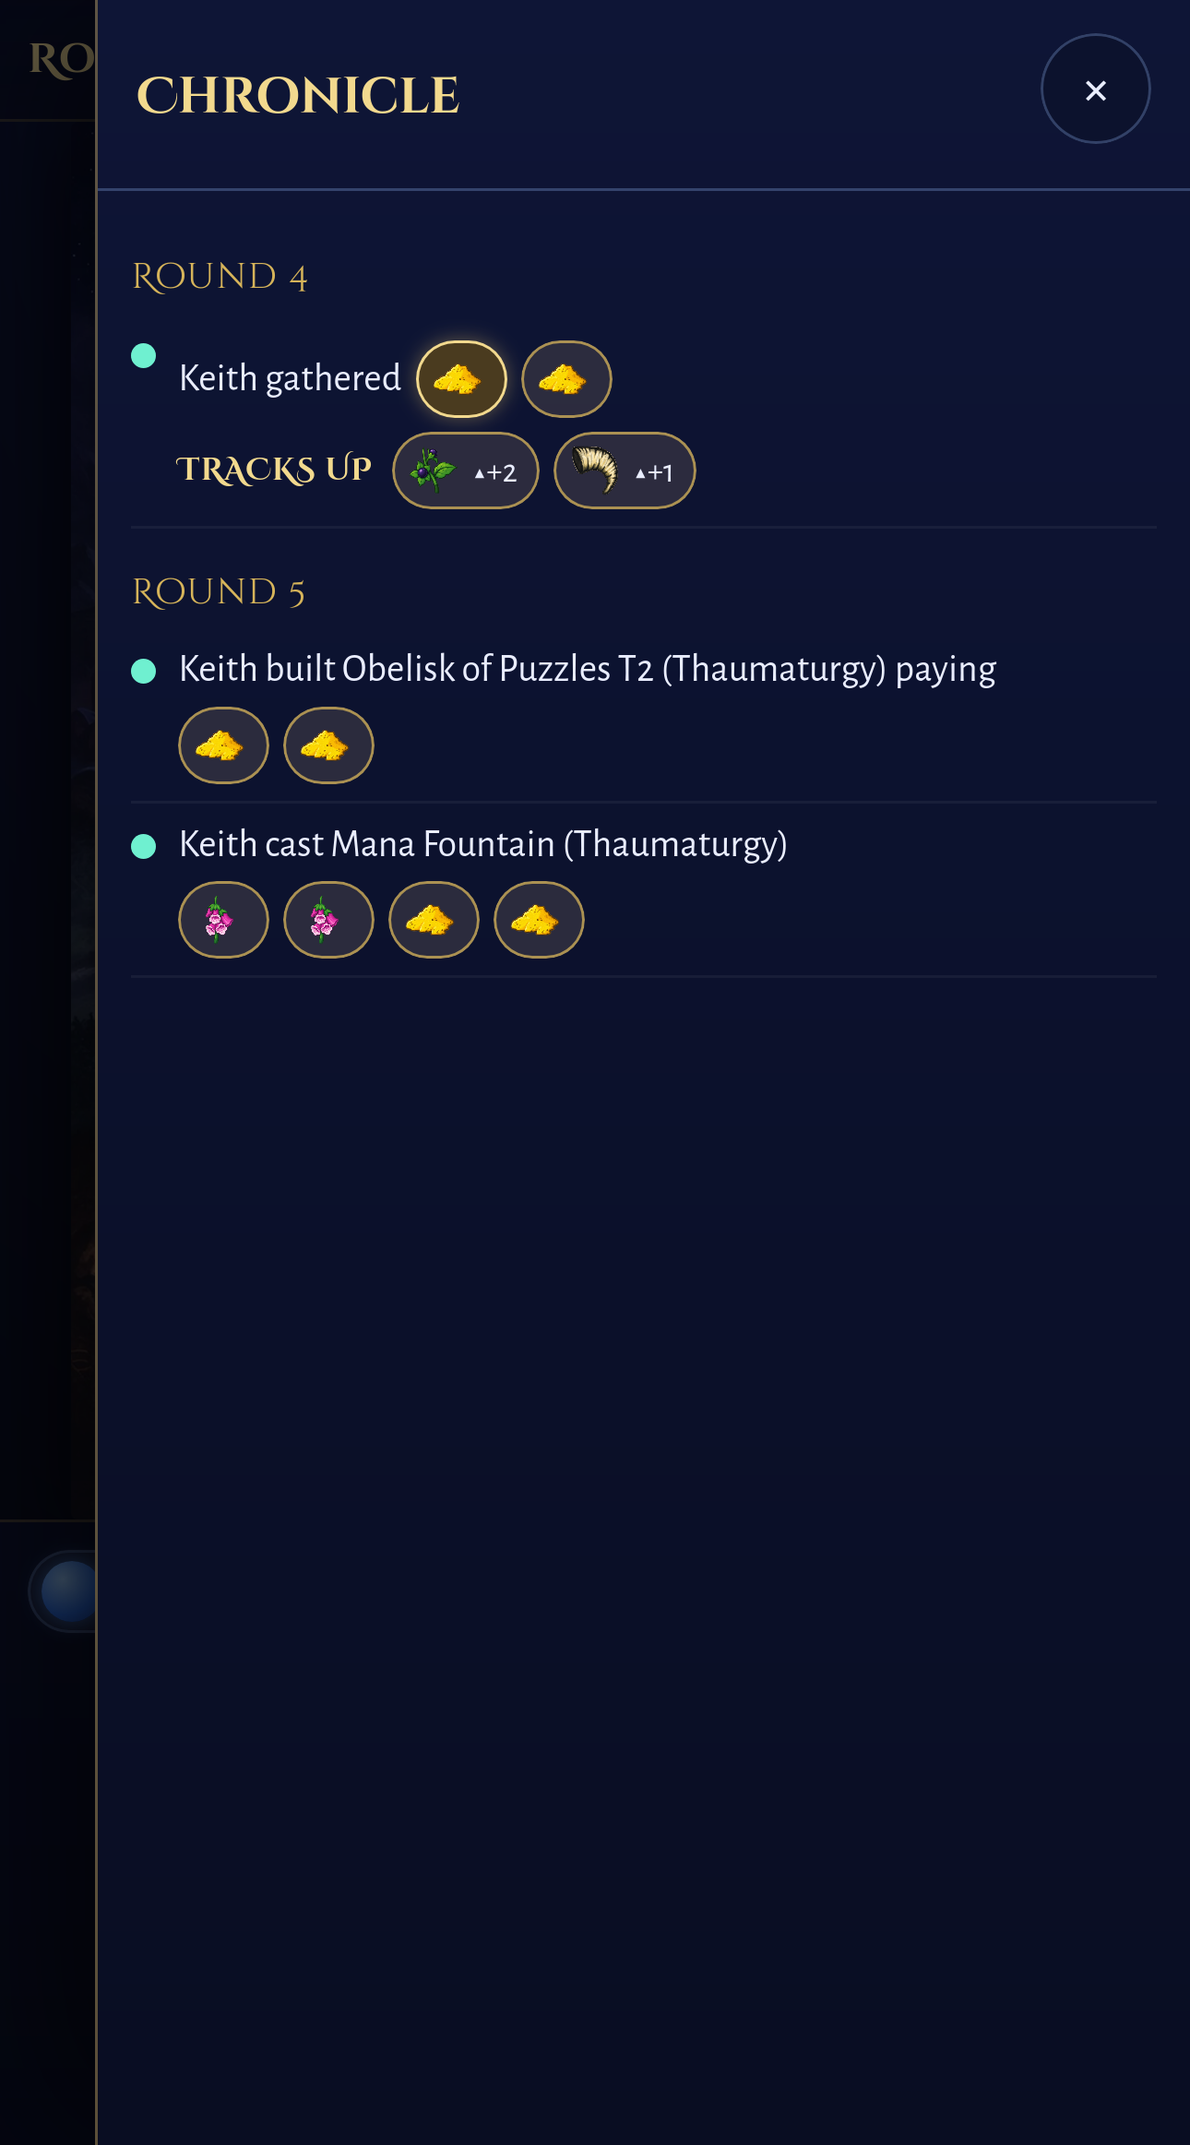
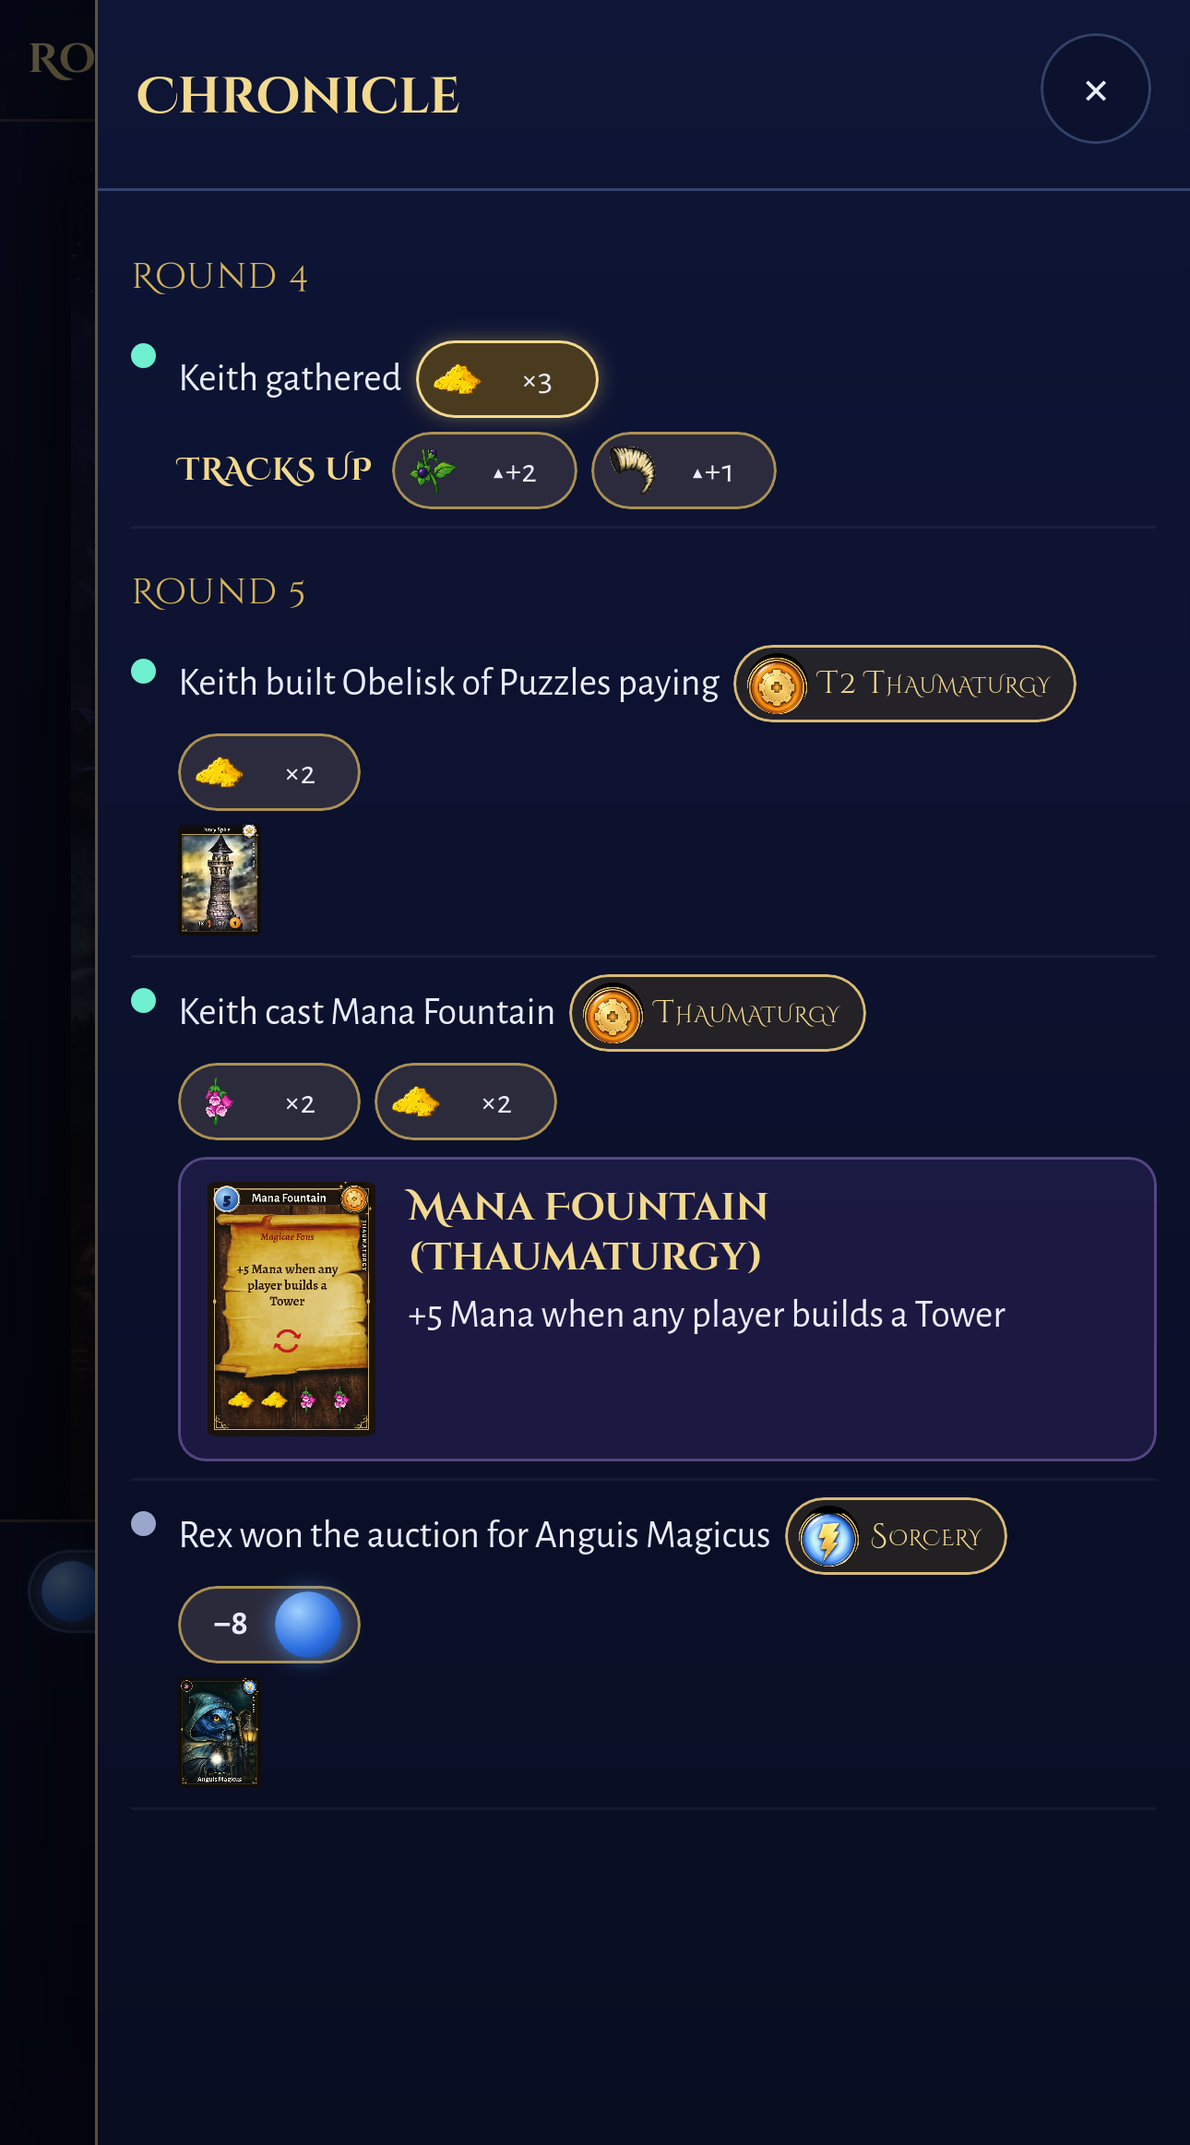
Add Chronicle school chips and reagent counts (#71)
* Add Chronicle school chips and reagent counts

* Apply v4 Chronicle chip standards

---------

diff --git a/app/js/ui.js b/app/js/ui.js
@@ -477,24 +477,27 @@ export function openMats(g) {
 // ------------------------------------------------------------------ log drawer
 const DOT = { Keith: '#6ff0d0', Newt: '#c49bff', LizWiz: '#ffb46b' };
 
-function logReagentChip(r, { bonus = false, track = null } = {}) {
+function logReagentChip(r, { bonus = false, count = 1, track = null } = {}) {
   const label = nice(r);
+  const suffix = track ? `▲+${track}` : (count >= 2 ? `×${count}` : '');
   return h('span', {
     class: `log-reagent-chip ${bonus ? 'bonus' : ''} ${track ? 'log-track-chip' : ''}`,
-    title: label,
-    'aria-label': label,
-  }, h('img', { src: reagentIcon(r), alt: label }), track ? `▲+${track}` : null);
+    title: suffix ? `${label} ${suffix}` : label,
+    'aria-label': suffix ? `${label} ${suffix}` : label,
+  }, h('img', { src: reagentIcon(r), alt: label }),
+    h('span', { class: 'log-reagent-count' }, suffix));
+}
+
+export function groupReagents(reagents = [], bonus = []) {
+  const grouped = new Map();
+  const bonusSet = new Set(bonus);
+  for (const reagent of [...reagents, ...bonus]) grouped.set(reagent, (grouped.get(reagent) || 0) + 1);
+  return [...grouped.entries()].map(([reagent, count]) => ({ reagent, count, bonus: bonusSet.has(reagent) }));
 }
 
 function logReagentRow(reagents, bonus = []) {
-  const bonusLeft = [...bonus];
   return h('div', { class: 'log-reagent-row' },
-    ...(reagents || []).map((r) => {
-      const i = bonusLeft.indexOf(r);
-      const isBonus = i >= 0;
-      if (isBonus) bonusLeft.splice(i, 1);
-      return logReagentChip(r, { bonus: isBonus });
-    }));
+    ...groupReagents(reagents, bonus).map(({ reagent: r, count, bonus: isBonus }) => logReagentChip(r, { bonus: isBonus, count })));
 }
 
 function logTracksRow(tracks) {
@@ -503,19 +506,46 @@ function logTracksRow(tracks) {
   return h('div', { class: 'log-track-row' },
     h('span', { class: 'log-track-label' }, 'TRACKS UP'),
     h('div', { class: 'log-reagent-row' },
-      ...countsByReagent.keys().map((r) => logReagentChip(r, { track: countsByReagent.get(r) }))));
+      ...countsByReagent.keys().map((r) => logReagentChip(r, { track: countsByReagent.get(r), count: countsByReagent.get(r) }))));
 }
 
-function logInlineReagents(text, reagents, bonus = []) {
+function logSchoolChip(school, tier = null) {
+  const label = tier ? `T${tier} ${school}` : school;
+  const crest = ['Wild', 'Arch-Mage'].includes(school) ? null : h('img', { src: schoolIcon(school), alt: school });
+  return h('span', { class: `log-school-chip ${crest ? '' : 'plain'}`, title: label, 'aria-label': label }, crest, label);
+}
+
+function logValueChip({ kind, value }) {
+  const label = `${value} ${kind}`;
+  return h('span', { class: `log-value-chip ${kind}`, title: label, 'aria-label': label },
+    h('span', { class: 'log-value-number' }, value < 0 ? `−${Math.abs(value)}` : String(value)),
+    h('span', { class: `log-value-orb ${kind}`, 'aria-hidden': 'true' }));
+}
+
+function logInlineReagents(text, reagents, bonus = [], school = null, tier = null, values = []) {
   return h('div', { class: 'log-inline' },
     h('span', { class: 'log-inline-text' }, text),
-    logReagentRow(reagents, bonus));
+    school ? logSchoolChip(school, tier) : null,
+    reagents?.length ? logReagentRow(reagents, bonus) : null,
+    ...(values || []).map(logValueChip));
 }
 
 function chronicleText(e) {
-  if (e.act === 'build' && e.reagents?.length) return e.text.replace(/\s+paying.*$/, ' paying');
-  if ((e.act === 'cast' || e.act === 'research') && e.reagents?.length) return e.text.replace(/\s+\([^()]*\)$/, '');
-  return e.text;
+  let text = e.text;
+  if (e.school) {
+    const schoolPart = e.tier ? new RegExp(`\\s+T${e.tier}\\s+\\(${e.school}\\)`) : new RegExp(`\\s+\\(${e.school}\\)`);
+    text = text.replace(schoolPart, '');
+  }
+  if (e.values?.length) {
+    text = text
+      .replace(/\s+for\s+\d+\s+mana\b/g, '')
+      .replace(/\s+into\s+\d+\s+Gold\b/g, '')
+      .replace(/:\s*[+-]\d+\s+(?:mana|Gold)(?:\s+total)?/g, '')
+      .replace(/\s+\(\+[0-9]+\s+mana\s+total\)/g, '');
+  }
+  if (e.act === 'build' && e.reagents?.length) return text.replace(/\s+paying.*$/, ' paying');
+  if ((e.act === 'cast' || e.act === 'research') && e.reagents?.length) return text.replace(/\s+\([^()]*\)$/, '');
+  return text;
 }
 
 export async function openLog(g) {
@@ -533,13 +563,16 @@ export async function openLog(g) {
       h('img', { src: art(e.cast), alt: e.cast, onclick: () => expandCard(g, e.cast) }),
       h('div', {}, h('div', { class: 'lc-name' }, g.cards[e.cast].display), h('div', { class: 'lc-text' }, g.cards[e.cast].effect))) : null;
     const gatherBlock = e.act === 'gather' && e.gather ? h('div', { class: 'log-gather-details' },
-      logInlineReagents(`${e.who} gathered`, e.gather.reagents, e.gather.bonus), logTracksRow(e.gather.tracks)) : null;
-    const inlineReagents = !gatherBlock && e.reagents?.length
-      ? logInlineReagents(chronicleText(e), e.reagents)
+      logInlineReagents(`${e.who} gathered`, e.gather.reagents, e.gather.bonus, e.school, e.tier, e.values), logTracksRow(e.gather.tracks)) : null;
+    const inlineReagents = !gatherBlock && (e.reagents?.length || e.school)
+      ? logInlineReagents(chronicleText(e), e.reagents, [], e.school, e.tier, e.values)
+      : null;
+    const inlineValues = !gatherBlock && !inlineReagents && e.values?.length
+      ? logInlineReagents(chronicleText(e), [], [], e.school, e.tier, e.values)
       : null;
     appendNodes(list, h('div', { class: 'log-item', 'data-testid': 'log-item' },
       h('span', { class: 'dot', style: { background: DOT[e.who] || '#9aa6cc' } }),
-      h('div', { style: { flex: 1 } }, gatherBlock, inlineReagents || (!gatherBlock ? h('div', {}, chronicleText(e)) : null),
+      h('div', { style: { flex: 1 } }, gatherBlock, inlineReagents || inlineValues || (!gatherBlock ? h('div', {}, chronicleText(e)) : null),
         thumbs.length ? h('div', { class: 'thumbs' }, thumbs.slice(0, 8).map((k) => h('img', { src: art(k), alt: k, onclick: () => expandCard(g, k) }))) : null,
         castBlock)));
   }

diff --git a/tests/e2e/chronicle-reagent-icons.spec.js b/tests/e2e/chronicle-reagent-icons.spec.js
@@ -15,11 +15,17 @@ test('Chronicle renders structured reagent icons for gather, build, and cast ent
         },
         {
           r: 5, who: 'Keith', act: 'build', text: 'Keith built Obelisk of Puzzles T2 (Thaumaturgy) paying Sulphur, Sulphur',
-          reagents: ['Sulphur', 'Sulphur'],
+          reagents: ['Sulphur', 'Sulphur'], school: 'Thaumaturgy', tier: 2, cards: ['Tower_T1_Ivory_Spire'],
         },
         {
           r: 5, who: 'Keith', act: 'cast', text: 'Keith cast Mana Fountain (Thaumaturgy) (Foxglove, Foxglove, Sulphur, Sulphur)',
-          reagents: ['Foxglove', 'Foxglove', 'Sulphur', 'Sulphur'],
+          reagents: ['Foxglove', 'Foxglove', 'Sulphur', 'Sulphur'], school: 'Thaumaturgy',
+          cast: 'Spell_Mana_Fountain', cards: ['Spell_Mana_Fountain'],
+        },
+        {
+          r: 5, who: 'Rex', act: 'auction', text: 'Rex won the auction for Anguis Magicus for 8 mana',
+          school: 'Sorcery', values: [{ kind: 'mana', value: -8 }],
+          cards: ['Wizard_Anguis_Magicus'],
         },
       ],
     });
@@ -28,18 +34,31 @@ test('Chronicle renders structured reagent icons for gather, build, and cast ent
 
   const log = page.getByTestId('log');
   await expect(log).toBeVisible();
-  await expect(log.locator('.log-item')).toHaveCount(3);
+  await expect(log.locator('.log-item')).toHaveCount(4);
   await expect(log.locator('.log-track-label')).toHaveText('TRACKS UP');
   await expect(log.locator('.log-track-chip')).toHaveCount(2);
   await expect(log.locator('.log-gather-details .log-reagent-chip.bonus')).toHaveCount(1);
   await expect(log.locator('.log-item').nth(0).locator('.log-inline-text')).toHaveText('Keith gathered');
-  await expect(log.locator('.log-item').nth(0).locator('.log-inline .log-reagent-chip')).toHaveCount(2);
-  await expect(log.locator('.log-item').nth(1)).toContainText('Keith built Obelisk of Puzzles T2 (Thaumaturgy) paying');
-  await expect(log.locator('.log-item').nth(1).locator('.log-reagent-chip')).toHaveCount(2);
-  await expect(log.locator('.log-item').nth(2)).toContainText('Keith cast Mana Fountain (Thaumaturgy)');
+  await expect(log.locator('.log-item').nth(0).locator('.log-inline .log-reagent-chip')).toHaveCount(1);
+  await expect(log.locator('.log-item').nth(0).locator('.log-inline .log-reagent-count')).toHaveText('×3');
+  await expect(log.locator('.log-item').nth(1)).toContainText('Keith built Obelisk of Puzzles paying');
+  await expect(log.locator('.log-item').nth(1).locator('.log-school-chip')).toContainText('T2 Thaumaturgy');
+  await expect(log.locator('.log-item').nth(1).locator('.log-reagent-chip')).toHaveCount(1);
+  await expect(log.locator('.log-item').nth(2)).toContainText('Keith cast Mana Fountain');
+  await expect(log.locator('.log-item').nth(2).locator('.log-school-chip')).toContainText('Thaumaturgy');
   await expect(log.locator('.log-item').nth(2)).not.toContainText('Foxglove, Foxglove');
-  await expect(log.locator('.log-item').nth(2).locator('.log-reagent-chip')).toHaveCount(4);
-  await expect(log.locator('.log-reagent-chip').first()).toHaveAttribute('aria-label', 'Sulphur');
+  await expect(log.locator('.log-item').nth(2).locator('.log-reagent-chip')).toHaveCount(2);
+  await expect(log.locator('.log-item').nth(2).locator('.log-reagent-count').nth(0)).toHaveText('×2');
+  await expect(log.locator('.log-reagent-chip').first()).toHaveAttribute('aria-label', 'Sulphur ×3');
+  await expect(log.locator('.log-item').nth(3).locator('.log-school-chip')).toContainText('Sorcery');
+  await expect(log.locator('.log-item').nth(3).locator('.log-value-chip')).toHaveCount(1);
+  await expect(log.locator('.log-item').nth(3).locator('.log-value-number')).toHaveText('−8');
+  const grouped = await page.evaluate(() => window.ui.groupReagents(['Sulphur', 'Foxglove', 'Sulphur'], ['Sulphur', 'Horn']));
+  expect(grouped).toEqual([
+    { reagent: 'Sulphur', count: 3, bonus: true },
+    { reagent: 'Foxglove', count: 1, bonus: false },
+    { reagent: 'Horn', count: 1, bonus: true },
+  ]);
   const gatherTextBox = await log.locator('.log-item').nth(0).locator('.log-inline-text').boundingBox();
   const gatherChipBox = await log.locator('.log-item').nth(0).locator('.log-inline .log-reagent-chip').first().boundingBox();
   expect(Math.abs(gatherTextBox.y - gatherChipBox.y)).toBeLessThan(12);

diff --git a/app/css/app.css b/app/css/app.css
@@ -474,6 +474,20 @@ img { -webkit-user-drag: none; user-select: none; }
   font-size: 12px; white-space: nowrap; }
 .log-reagent-chip.bonus { border-color: var(--gold-hi); background: rgba(99, 75, 24, .72); box-shadow: 0 0 7px rgba(255, 211, 107, .35); }
 .log-reagent-chip img { width: 22px; height: 22px; object-fit: contain; flex: none; }
+.log-reagent-count { display: inline-block; width: 30px; text-align: center; font-variant-numeric: tabular-nums; }
+.log-value-chip { display: inline-flex; align-items: center; justify-content: center; gap: 4px; min-width: 62px; height: 28px; padding: 0 6px;
+  border: 1px solid rgba(214, 180, 90, .75); border-radius: 15px; background: rgba(55, 52, 67, .72);
+  color: var(--ink); font-size: 13px; font-variant-numeric: tabular-nums; white-space: nowrap; }
+.log-value-number { min-width: 24px; text-align: center; font-weight: 700; }
+.log-value-orb { width: 24px; height: 24px; border-radius: 50%; display: grid; place-items: center; flex: none; }
+.log-value-orb.mana { background: radial-gradient(circle at 35% 30%, #9fd0ff, #2b6ee0 60%, #173a8a); box-shadow: 0 0 8px rgba(90, 162, 255, .7); }
+.log-value-orb.gold { background: radial-gradient(circle at 35% 30%, #fff1b0, #e0a92e 60%, #8a5a12); box-shadow: 0 0 8px rgba(224, 169, 46, .6); }
+.log-school-chip { display: inline-flex; align-items: center; gap: 4px; min-height: 25px; padding: 2px 8px 2px 4px;
+  border: 1px solid rgba(255, 220, 137, .82); border-radius: 14px; background: rgba(88, 67, 24, .32);
+  color: var(--gold-hi); font-family: var(--display); font-size: 11px; font-variant-caps: small-caps;
+  letter-spacing: .4px; white-space: nowrap; }
+.log-school-chip img { width: 22px; height: 22px; object-fit: contain; }
+.log-school-chip.plain { border-color: rgba(214, 180, 90, .45); }
 .log-track-row { display: flex; flex-wrap: wrap; align-items: center; gap: 5px; }
 .log-track-label { color: var(--gold-hi); font-family: var(--display); font-size: 11px; font-weight: 700;
   font-variant-caps: small-caps; letter-spacing: .4px; margin-right: 2px; }

diff --git a/engine/web/lw_web.py b/engine/web/lw_web.py
@@ -349,6 +349,34 @@ def sell_banner_data(e):
     return None
 
 
+def chronicle_values(e):
+    """Numeric mana/gold facts rendered as number-first Chronicle chips."""
+    a = e.get('act')
+    values = []
+    if a == 'auction' and e.get('price') is not None:
+        values.append({'kind': 'mana', 'value': -e['price']})
+    elif a in ('convert', 'convert1') and e.get('gain') is not None:
+        values.append({'kind': 'mana', 'value': e['gain']})
+    elif a == 'transmute' and e.get('gold') is not None:
+        values.append({'kind': 'gold', 'value': e['gold']})
+    elif a == 'wand_tax' and e.get('gold') is not None:
+        values.append({'kind': 'gold', 'value': e['gold']})
+    elif a == 'invisibility_potion' and e.get('gold') is not None:
+        values.append({'kind': 'gold', 'value': e['gold']})
+    elif a == 'summon':
+        if e.get('cost') is not None:
+            values.append({'kind': 'mana', 'value': -e['cost']})
+        if e.get('gold') is not None:
+            values.append({'kind': 'gold', 'value': e['gold']})
+    elif a == 'research' and e.get('paid') is not None:
+        values.append({'kind': 'mana', 'value': -e['paid']})
+    elif a == 'build' and e.get('paid') == 'gold':
+        values.append({'kind': 'gold', 'value': -e.get('tier_paid', 0)})
+    elif a == 'trigger' and e.get('gain') is not None:
+        values.append({'kind': 'mana', 'value': e['gain']})
+    return values
+
+
 def structured_banner_data(e):
     """Compact banner facts; log_text remains the plain-text history fallback."""
     a = e.get('act'); w = e.get('who') or e.get('won')
@@ -478,6 +506,11 @@ def log_cards(e):
 def public_log(s, viewer):
     pv = AI.public_view(s, viewer)
     out = []
+    hardcoded_schools = {
+        'creation': 'Conjuring',
+        'swapo': 'Enchantment',
+        'divination': 'Sorcery',
+    }
     for i, e in enumerate(pv['meta'].get('log', [])):
         a = e.get('act')
         item = dict(i=i, r=e.get('r'), who=e.get('who') or e.get('won') or e.get('seat'), act=a)
@@ -485,8 +518,21 @@ def public_log(s, viewer):
         elif a == 'setup_picks': item['text'] = 'Starting reagents: ' + '; '.join(f"{n} {', '.join(T.nice(r) for r in v)}" for n, v in e['picks'].items())
         else: item['text'] = log_text(e)
         item['cards'] = log_cards(e)
+        school_card = e.get('tower') or e.get('spell') or e.get('familiar')
+        if a == 'auction' and e.get('item'):
+            school_card = 'Wizard_' + e['item'] + '.jpg'
+        school = CD.school(school_card) if school_card else hardcoded_schools.get(str(a).lower())
+        if a == 'wand_tax':
+            school = e.get('school') or school
+        if school:
+            item['school'] = school
+            if school_card and str(school_card).startswith('Tower_'):
+                item['tier'] = CD.tower_info(school_card)[0]
         if a == 'gather':
             item['gather'] = gather_banner_data(e)
+        values = chronicle_values(e)
+        if values:
+            item['values'] = values
         if a == 'build' and isinstance(e.get('paid'), list):
             item['reagents'] = list(e.get('paid', []))
         elif a in ('cast', 'research') and e.get('cast_paid'):

diff --git a/engine/web/test_log_format.py b/engine/web/test_log_format.py
@@ -83,7 +83,16 @@ def test_public_log_exposes_reagent_lists_for_chronicle_icons():
     finally:
         lw_web.AI.public_view = old_public_view
     assert result[0]['reagents'] == ['Sulphur', 'Sulphur']
+    assert result[0]['school'] == 'Enchantment'
+    assert result[0]['tier'] == 1
     assert result[1]['reagents'] == ['Foxglove', 'Foxglove', 'Sulphur', 'Sulphur']
+    assert result[1]['school'] == 'Thaumaturgy'
+
+
+def test_chronicle_values_use_signed_numeric_facts():
+    assert lw_web.chronicle_values({'act': 'auction', 'price': 8}) == [{'kind': 'mana', 'value': -8}]
+    assert lw_web.chronicle_values({'act': 'convert', 'gain': 32}) == [{'kind': 'mana', 'value': 32}]
+    assert lw_web.chronicle_values({'act': 'transmute', 'gold': 5}) == [{'kind': 'gold', 'value': 5}]
 
 
 def test_sell_banner_data_keeps_sales_and_total_mana_without_track_value():
@@ -137,6 +146,7 @@ if __name__ == '__main__':
     test_log_text_does_not_expose_numbered_card_ids()
     test_gather_banner_data_preserves_reagents_bonus_and_tracks()
     test_public_log_exposes_reagent_lists_for_chronicle_icons()
+    test_chronicle_values_use_signed_numeric_facts()
     test_sell_banner_data_keeps_sales_and_total_mana_without_track_value()
     test_remaining_ai_banner_actions_have_structured_data()
     print(f'OK: {len(ACTS)} log actions humanized')

diff --git a/REGRESSION_CHECKLIST.md b/REGRESSION_CHECKLIST.md
@@ -21,5 +21,7 @@ Run the relevant Playwright project on both Chromium and `webkit-iphone` where n
 | Safari cache busting | A Pages deploy stamps HTML, CSS, module imports, and runtime engine URLs with the build/SHA token; a new tab does not reuse the old module graph. | `tools/test_version_stamp.py` |
 | Chronicle reagent icons (#65) | Gather, build, and cast history entries show wrapped named reagent icon chips; gathers combine repeated track increases and distinguish wizard-bonus rings. | `tests/e2e/chronicle-reagent-icons.spec.js`, `engine/web/test_log_format.py` |
 | Reagent expanded card (#64) | Expand a reagent from hand, mats, and Chronicle; only the centered card, dots, arrows, and close remain, while spell/familiar info panels stay unchanged. | `tests/e2e/reagent-expand.spec.js` |
+| Chronicle school chips and reagent counts | Chronicle card names show school crest pills with tower tier, while reagent lists preserve first order, group duplicates, and reserve aligned count slots. | `tests/e2e/chronicle-reagent-icons.spec.js`, `engine/web/test_log_format.py` |
+| Chronicle v4 values and bonus merge | Chronicle merges matching/unmatched bonus reagents into counted chips and renders signed mana/gold as clean number-first CSS-orb chips without changing card art or expanded metadata. | `tests/e2e/chronicle-reagent-icons.spec.js`, `engine/web/test_log_format.py` |
 
 For every carousel check, also verify X close, scrim close, vertical sheet scrolling, and that tapping an action tile performs the real state change.
